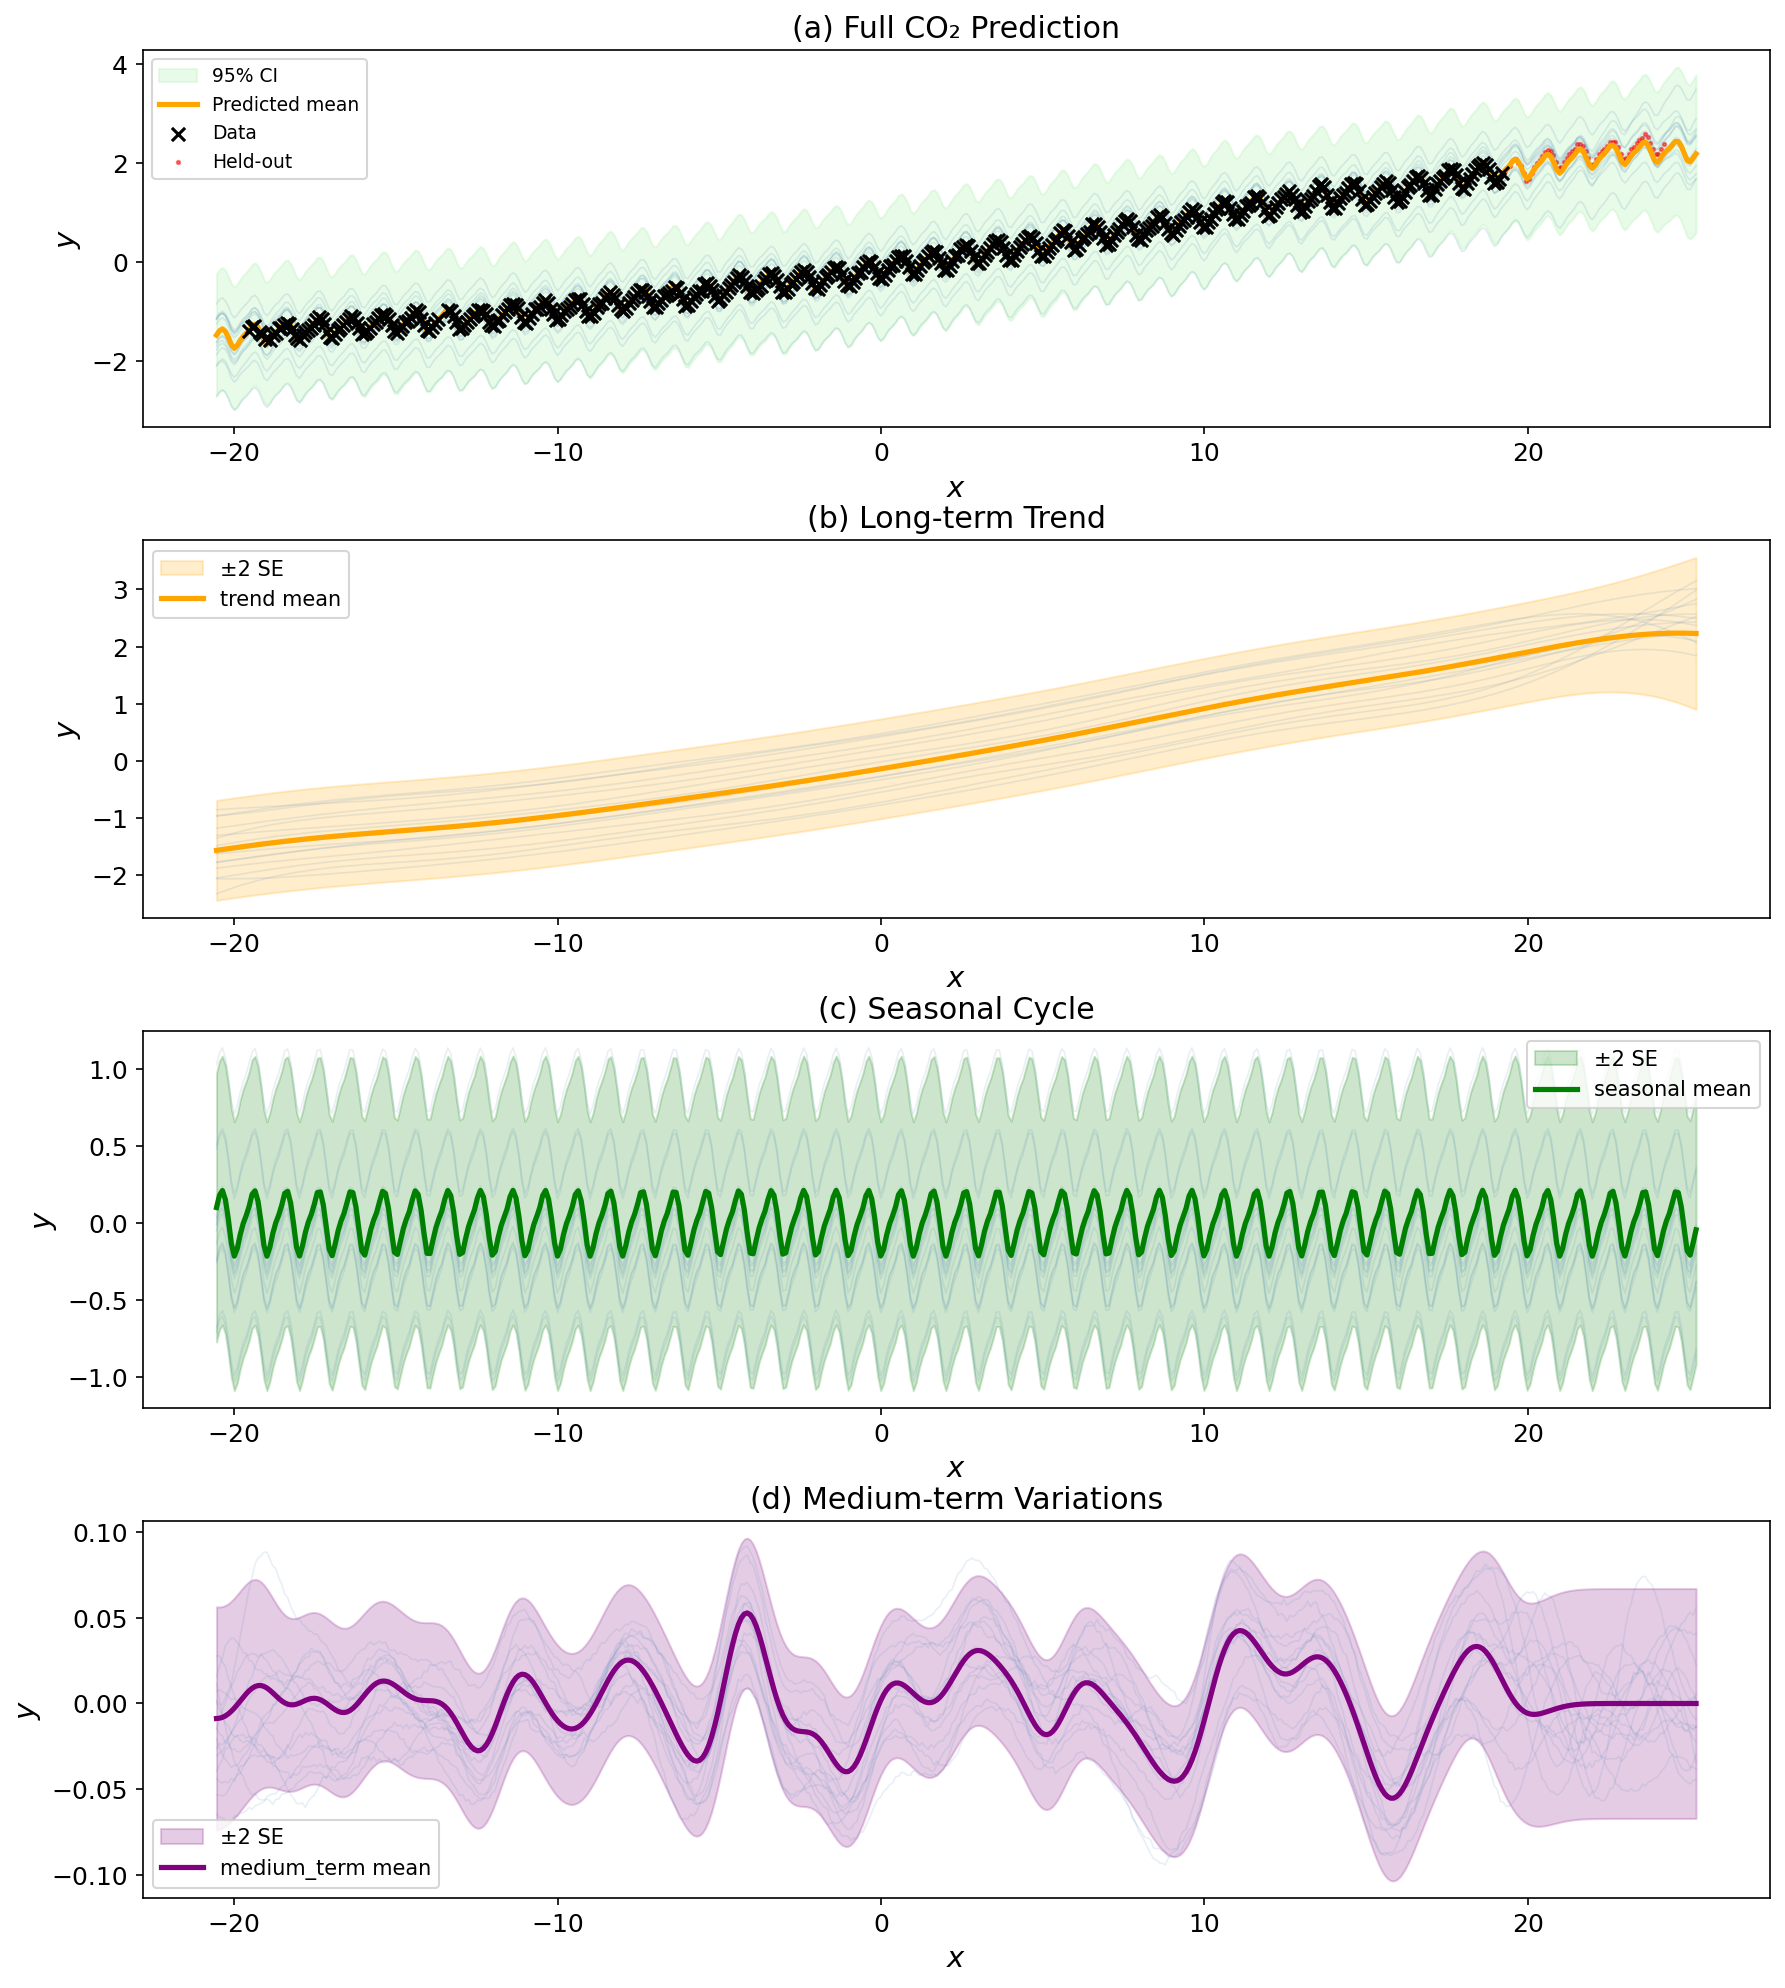
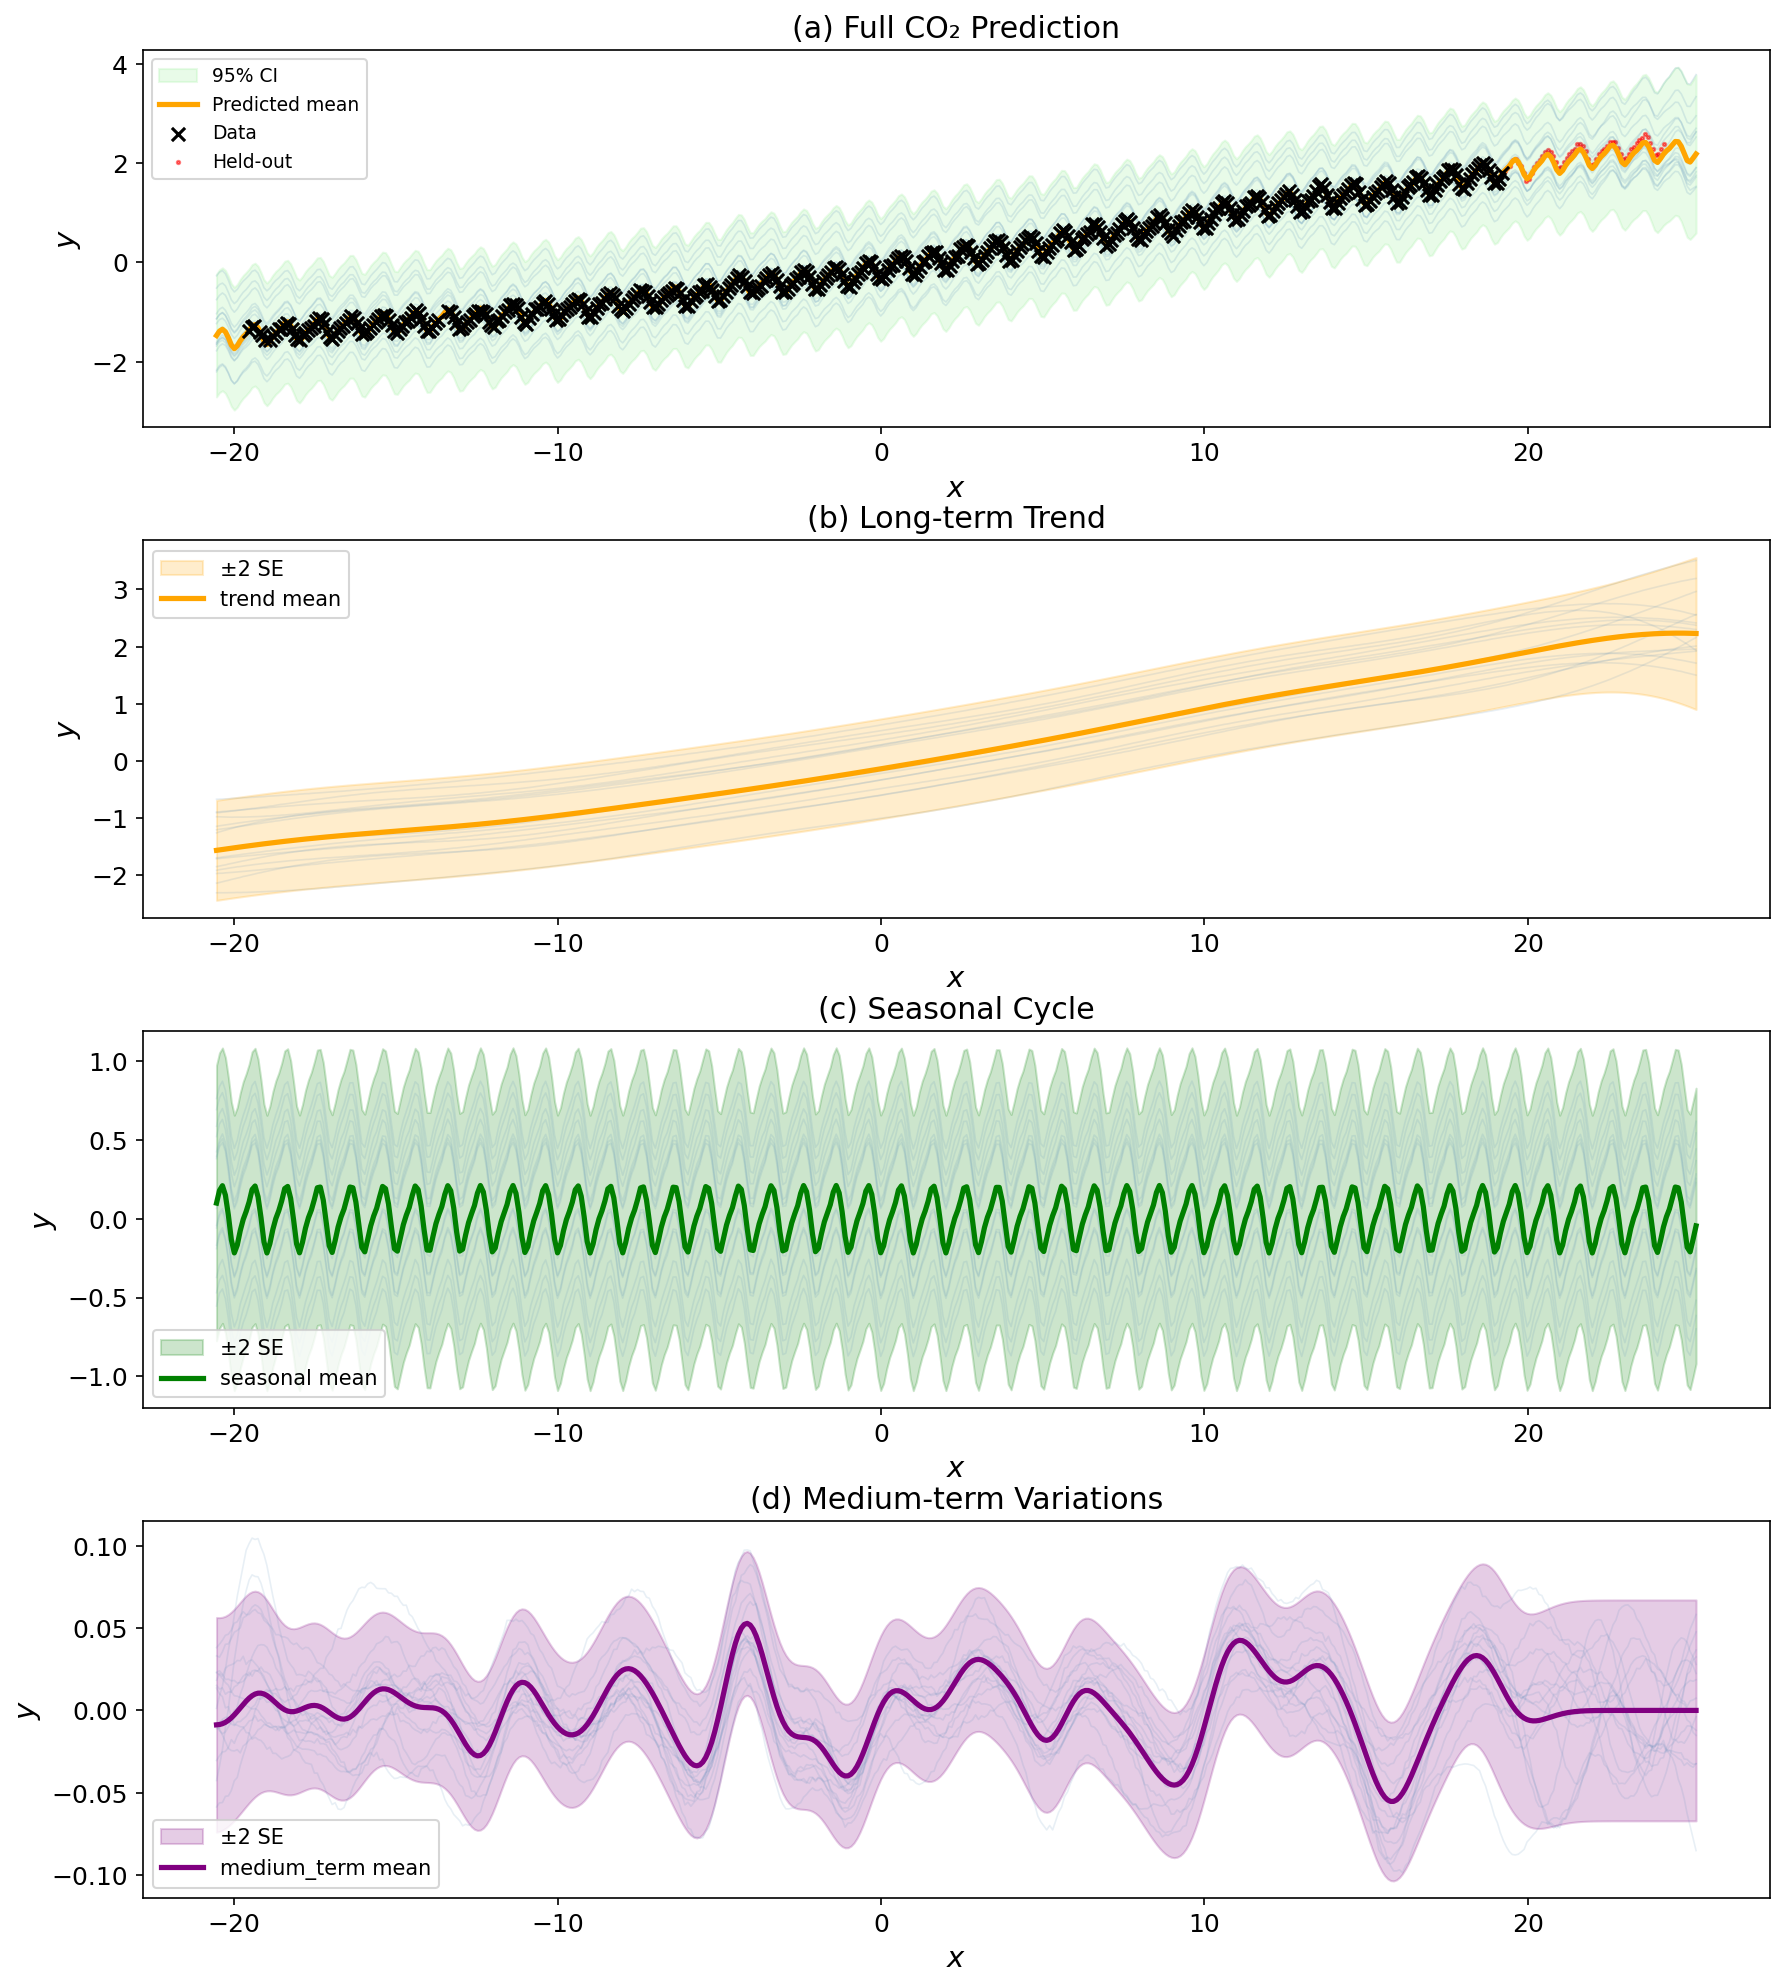
mauna loa results 100 100 128gb

diff --git a/experiments/practice_EvansEtAL/run_hierarchical.py b/experiments/practice_EvansEtAL/run_hierarchical.py
@@ -234,8 +234,8 @@ def run_experiment(kernel_types, n_hmc_samples=200, n_warmup=100,
                 json.dump(subj_result, f, indent=2, default=str)
 
         # Summary
-        n_power = sum(1 for c in curves if "Power" if "power" in c.dataset_id else "Exponential" == "Power")
-        n_exp = sum(1 for c in curves if "Power" if "power" in c.dataset_id else "Exponential" == "Exponential")
+        n_power = sum(1 for c in curves if "power" in c.dataset_id)
+        n_exp = sum(1 for c in curves if "exponential" in c.dataset_id)
 
         print(f"\n{'='*60}")
         print(f"RESULTS: {kernel_type} hierarchical")
